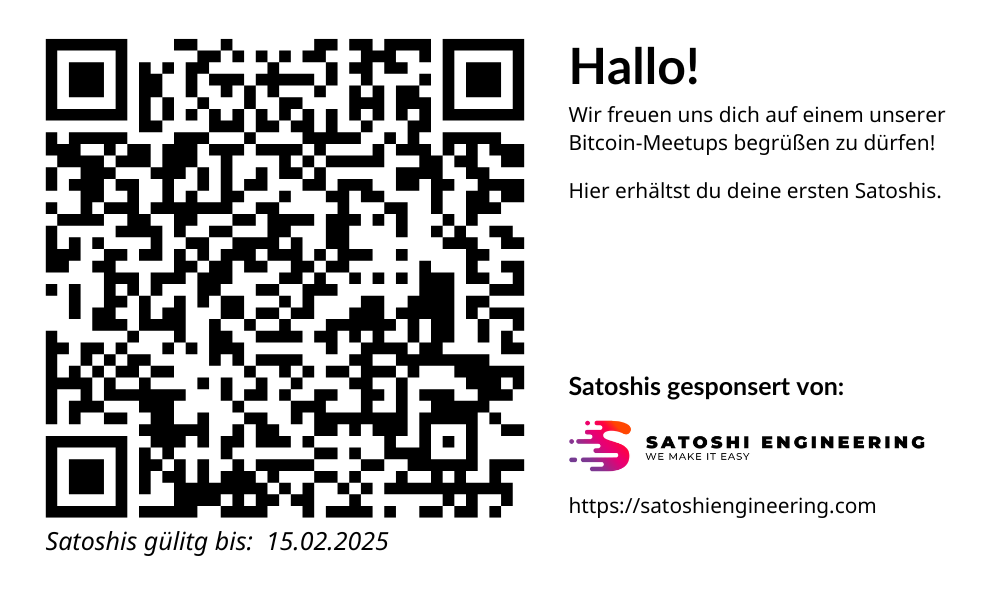
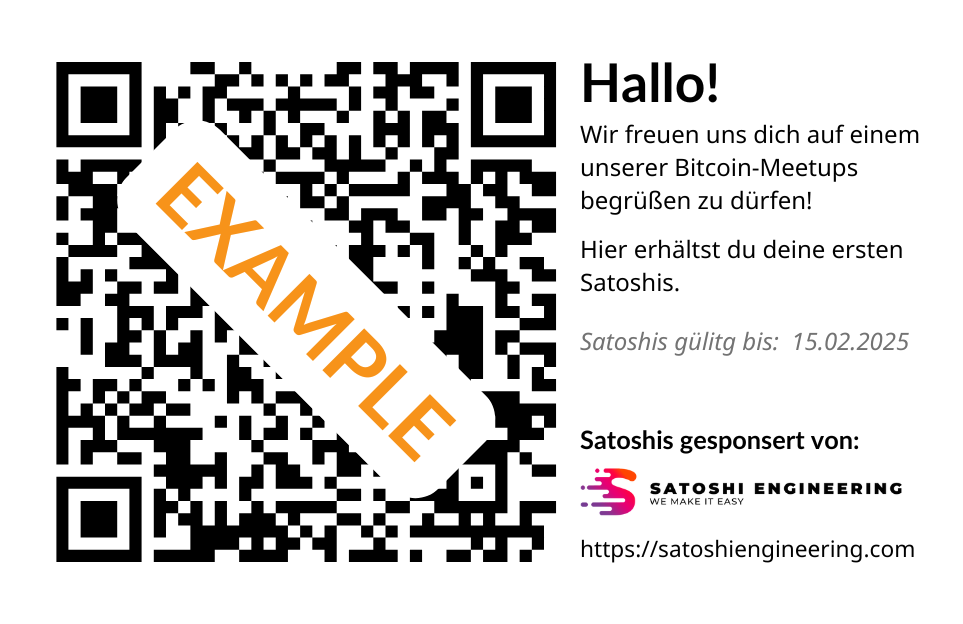
chore: change background image and adjust qr code
Refs: projects#1450

diff --git a/frontend/public/print-layout/libs/qrcode.min.js b/frontend/public/print-layout/libs/qrcode.min.js
@@ -1,1 +1,3 @@
+// https://davidshimjs.github.io/qrcodejs/
+// https://github.com/davidshimjs/qrcodejs
[1 lines of base64/hex data omitted]

diff --git a/frontend/public/print-layout/script.js b/frontend/public/print-layout/script.js
@@ -1,14 +1,20 @@
 const TEMPLATE_QRCODE_LINK = 'https://adsasdasd.io/funding/f428575507b59fa559fbc999999e1a673234716b76213255e05da47b8e153d0742'
 
+// All values in mm
 const cardWidth = 85
 const cardHeight = 55
 const pageWidth = 210
 const pageHeight = 297
+const cropMarkLength = 5
+const cropMarkPadding = 3
+const qrCodeX = 4.7
+const qrCodeY = 5.4
+// Value in Px
+const qrCodeSize = 168
+
 const cardsPerRow = Math.floor(pageHeight / cardHeight)
 const cardsPerColumn = Math.floor(pageWidth / cardWidth)
 const cardsPerPage = cardsPerRow * cardsPerColumn
-const cropMarkLength = 5
-const cropMarkPadding = 3
 
 const pages = []
 
@@ -126,11 +132,12 @@ const createBackpageContent = (card) => {
   // eslint-disable-next-line no-undef
   new QRCode(qrCodeElement, {
     text: TEMPLATE_QRCODE_LINK,
-    width: 165,
-    height: 165,
+    width: qrCodeSize,
+    height: qrCodeSize,
+    //colorLight: '#990000',
   })
-  qrCodeElement.style.left = '3mm'
-  qrCodeElement.style.top = '3mm'
+  qrCodeElement.style.left = `${qrCodeX}mm`
+  qrCodeElement.style.top = `${qrCodeY}mm`
   card.appendChild(qrCodeElement)
 }
 
